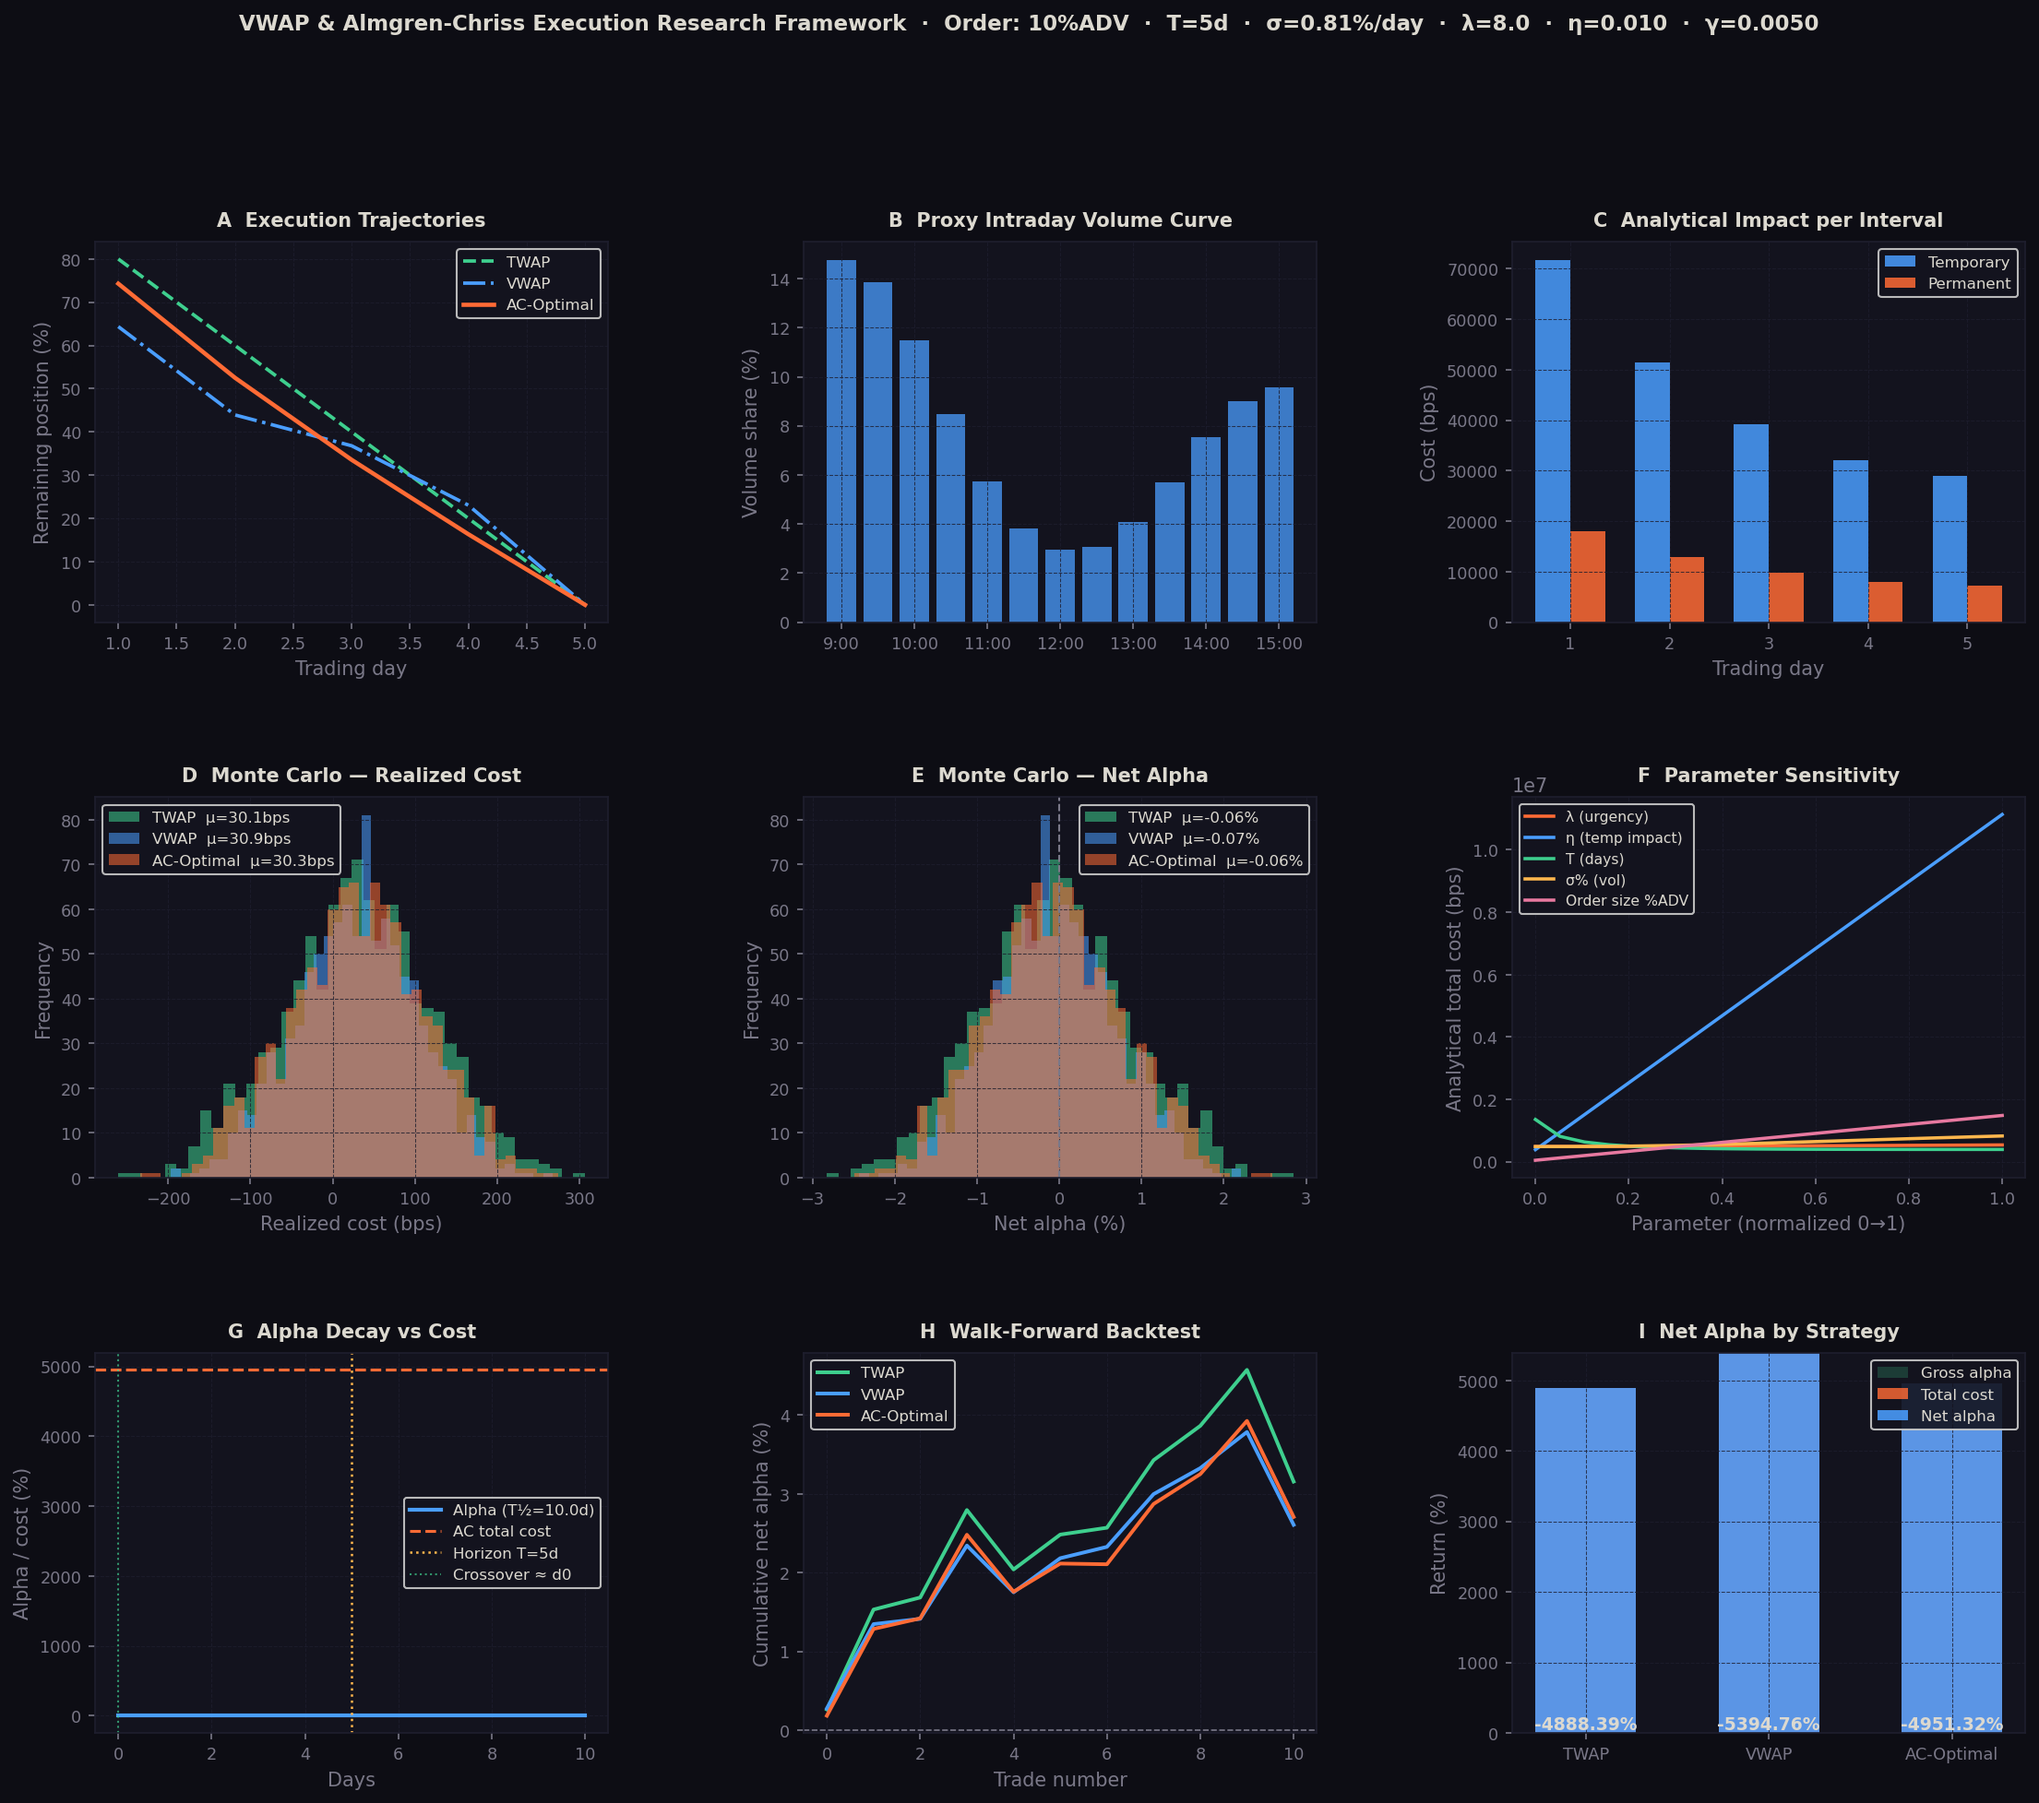
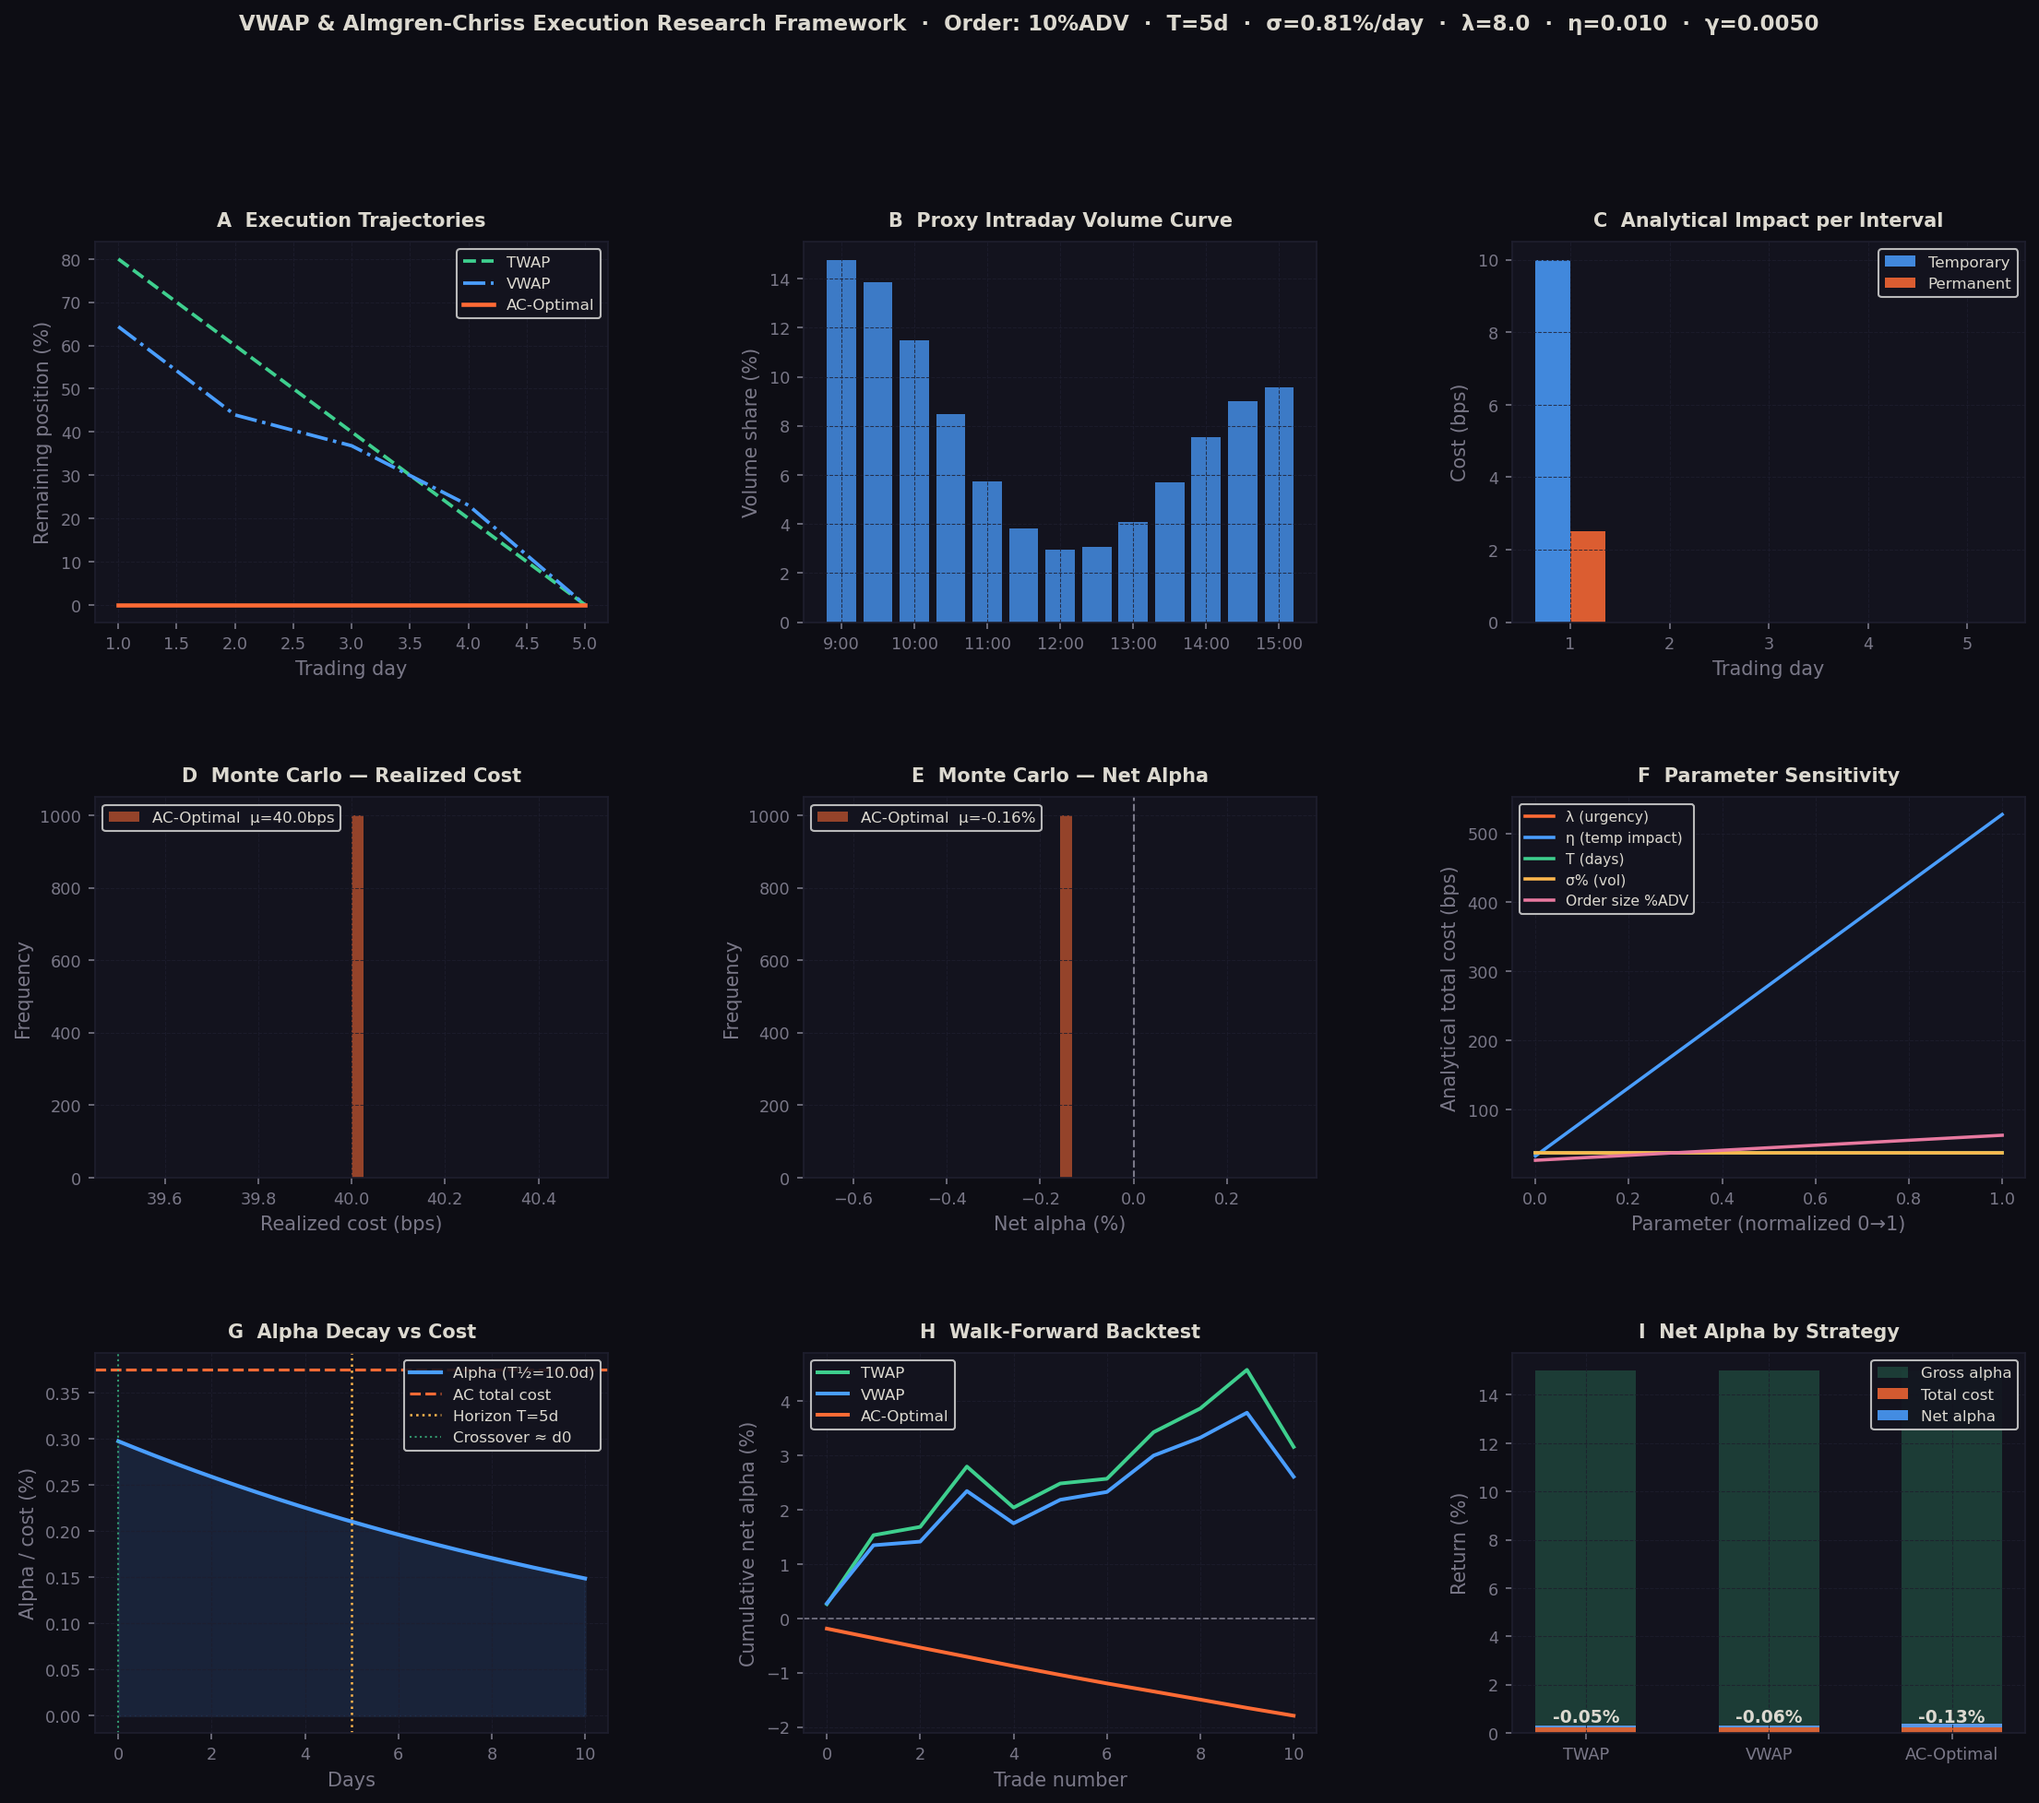
Fix AC model stability, improve summary table visualization, add plots

diff --git a/pro.py b/pro.py
@@ -221,56 +221,70 @@ class AlmgrenChriss:
         self.m=market
         self.o=order
         self.tau=1.0
-        self.kappa=np.sqrt(order.lam * market.sigma**2 / max(market.eta, 1e-12)) / self.tau
+        sigma_dollar=self.m.price*self.m.sigma
+        a_temp=self.m.price*self.m.eta/max(self.m.adv,1.0)
+        self.kappa = np.sqrt(self.o.lam * sigma_dollar**2 / max(a_temp, 1e-12)) / self.tau
 
     def optimal_trajectory(self) -> np.ndarray:
-        """Remaining inventory trajectory x_k, length T+1."""
-        T,X=self.o.T, self.o.X
-        k=np.arange(T + 1, dtype=float)
-        denom=np.sinh(self.kappa * T * self.tau)
-        if denom<1e-12:
+        T, X = self.o.T, self.o.X
+        k = np.arange(T + 1, dtype=float)
+        z = self.kappa * T * self.tau
+    # If urgency is extremely high, use near-immediate liquidation fallback
+        if not np.isfinite(z) or z > 50:
+            traj = np.zeros(T + 1)
+            traj[0] = X
+            return traj
+        denom = np.sinh(z)
+        if denom < 1e-12 or not np.isfinite(denom):
             return X * (1 - k / T)
-        traj=X* np.sinh(self.kappa*(T-k)*self.tau)/denom
-        return np.maximum(traj,0.0)
-
-    def optimal_trades(self)->np.ndarray:
-        """Shares traded in each period."""
-        return np.diff(-self.optimal_trajectory())
+        traj = X * np.sinh(self.kappa * (T - k) * self.tau) / denom
+        return np.maximum(traj, 0.0)
+    
+    def optimal_trades(self) -> np.ndarray:# Shares traded in each period
+        trades = np.maximum(-np.diff(self.optimal_trajectory()), 0.0)
+        total = trades.sum()
+        if not np.isfinite(total) or total <= 0:
+            return np.full(self.o.T, self.o.X / self.o.T)
+        trades *= self.o.X / total
+        return trades
 
     def expected_cost(self,trades: np.ndarray) -> float:
-        """Expected cost in dollars, AC-style."""
-        perm=0.5*self.m.gamma*self.o.X**2
-        temp=(self.m.eta/self.tau)*float(np.sum(trades**2))
-        return perm+temp
+        
+        impact_scale = self.m.price / max(self.m.adv, 1.0) ## expected cost in dollars,AC-style
+        perm = 0.5 * self.m.gamma * impact_scale * self.o.X**2
+        temp = (self.m.eta * impact_scale / self.tau) * float(np.sum(trades**2))
+        return perm + temp
 
     def variance_cost(self, trajectory: np.ndarray) -> float:
         """Variance term in dollars^2."""
+        sigma_dollar = self.m.price * self.m.sigma
         x_mid=trajectory[1:]
-        return float(self.m.sigma**2 * self.tau * np.sum(x_mid**2))
+        return float(sigma_dollar**2 * self.tau * np.sum(x_mid**2))
 
     def execution_shortfall_bps(self, trades: np.ndarray) -> Dict[str, float]:
         """Analytical expected-cost breakdown in basis points."""
-        X,S0,tau=self.o.X, self.m.price, self.tau
-        traj=np.r_[X, X - np.cumsum(trades)]
-        traj=np.maximum(traj, 0.0)
+        X, S0, tau = self.o.X, self.m.price, self.tau
+        traj = np.r_[X, X - np.cumsum(trades)]
+        traj = np.maximum(traj, 0.0)
 
-        cost_temp=(self.m.eta/tau)*float(np.sum(trades**2))
-        cost_perm=0.5*self.m.gamma *X**2
-        half_spread=(self.m.spread_bps / 10000) * S0 / 2
-        cost_spread=half_spread*float(np.sum(np.abs(trades)))
-        risk_dollar=self.o.lam*self.variance_cost(traj)
-        total=cost_temp + cost_perm + cost_spread
+        impact_scale = self.m.price / max(self.m.adv, 1.0)
+        cost_temp = (self.m.eta * impact_scale / tau) * float(np.sum(trades**2))
+        cost_perm = 0.5 * self.m.gamma * impact_scale * X**2
+        half_spread = (self.m.spread_bps / 10000) * S0 / 2
+        cost_spread = half_spread * float(np.sum(np.abs(trades)))
+        risk_dollar = self.o.lam * self.variance_cost(traj)
+        total = cost_temp + cost_perm + cost_spread
 
         def bps(d: float) -> float:
-            return round(d/(X*S0)*10000,3)
+            return round(d / (X * S0) * 10000, 3)
 
         return {
-            "temporary_impact_bps":bps(cost_temp),
-            "permanent_impact_bps":bps(cost_perm),
+            "temporary_impact_bps": bps(cost_temp),
+            "permanent_impact_bps": bps(cost_perm),
             "spread_cost_bps": bps(cost_spread),
-            "risk_penalty_bps":bps(risk_dollar),
-            "total_cost_bps":bps(total),
-            "total_with_risk_bps":bps(total + risk_dollar),
+            "risk_penalty_bps": bps(risk_dollar),
+            "total_cost_bps": bps(total),
+            "total_with_risk_bps": bps(total + risk_dollar),
         }
 # SECTION 7 — PATHWISE SLIPPAGE SIMULATION
 def simulate_slippage(
@@ -622,8 +636,9 @@ def plot_full_analysis(
     _style(ax2, "B  Proxy Intraday Volume Curve")
 
     ax3 = fig.add_subplot(gs[0, 2])
-    temp_c = market.eta * ac_t**2 / (order.X * market.price) * 10000
-    perm_c = 0.5 * market.gamma * ac_t**2 / (order.X * market.price) * 10000
+    impact_scale = market.price / max(market.adv, 1.0)
+    temp_c = market.eta * impact_scale * ac_t**2 / (order.X * market.price) * 10000
+    perm_c = 0.5 * market.gamma * impact_scale * ac_t**2 / (order.X * market.price) * 10000
     w = 0.35
     ax3.bar(days - w / 2, temp_c, width=w, color=BLUE, alpha=0.85, label="Temporary")
     ax3.bar(days + w / 2, perm_c, width=w, color=ORANGE, alpha=0.85, label="Permanent")
@@ -635,7 +650,10 @@ def plot_full_analysis(
     ax4 = fig.add_subplot(gs[1, 0])
     for name, color in [("TWAP", GREEN), ("VWAP", BLUE), ("AC-Optimal", ORANGE)]:
         data = mc_results[name]["realized_cost_bps"]
-        ax4.hist(data, bins=40, alpha=0.55, color=color, label=f"{name}  μ={data.mean():.1f}bps")
+        data = data[np.isfinite(data)]
+        if len(data) == 0:
+            continue
+    ax4.hist(data, bins=40, alpha=0.55, color=color, label=f"{name}  μ={data.mean():.1f}bps")
     ax4.set_xlabel("Realized cost (bps)")
     ax4.set_ylabel("Frequency")
     ax4.legend(fontsize=8, facecolor=PANEL, labelcolor=TEXT, framealpha=0.9)
@@ -644,7 +662,10 @@ def plot_full_analysis(
     ax5 = fig.add_subplot(gs[1, 1])
     for name, color in [("TWAP", GREEN), ("VWAP", BLUE), ("AC-Optimal", ORANGE)]:
         data = mc_results[name]["net_alpha"]
-        ax5.hist(data, bins=40, alpha=0.55, color=color, label=f"{name}  μ={data.mean():.2f}%")
+        data = data[np.isfinite(data)]
+        if len(data) == 0:
+            continue
+    ax5.hist(data, bins=40, alpha=0.55, color=color, label=f"{name}  μ={data.mean():.2f}%")
     ax5.axvline(0, color=MUTED, lw=1, ls="--")
     ax5.set_xlabel("Net alpha (%)")
     ax5.set_ylabel("Frequency")
@@ -806,9 +827,35 @@ def main():
         .round(3)
     )
     print("\n" + summary.to_string())
+    os.makedirs("images", exist_ok=True)
 
+    summary.to_csv("images/backtest_summary.csv")
+    fig, ax = plt.subplots(figsize=(16,4.8))
+    ax.axis('off')
+    table = ax.table(
+        cellText=summary.round(3).values,
+        colLabels=summary.columns,
+        rowLabels=summary.index,
+        cellLoc="center",
+        loc="center"
+    )
+    table.auto_set_font_size(False)
+    table.set_fontsize(11)
+    table.scale(1.2, 2.0)
+
+    for (row, col), cell in table.get_celld().items():
+        cell.set_linewidth(1.2)
+        if row == 0:
+            cell.set_text_props(weight="bold")
+            cell.set_facecolor("#eaeaea")
+        if col == -1:
+            cell.set_text_props(weight="bold")
+
+    plt.tight_layout()
+    plt.savefig("images/summary_table.png", dpi=220, bbox_inches="tight")
+    plt.close()
     print("\nGenerating 9-panel figure...")
-    plot_full_analysis(market, order, df, mc, sens, bt_df)
+    plot_full_analysis(market,order, df, mc, sens, bt_df)
     print("\nDone.")
 
 if __name__ == "__main__":

diff --git a/README.md b/README.md
@@ -14,4 +14,5 @@ Research-style execution modeling project featuring:
 - stylized walk-forward backtest
 - 9-panel visualization
 - flat-price consistency test
+- Backtest Summary
 
